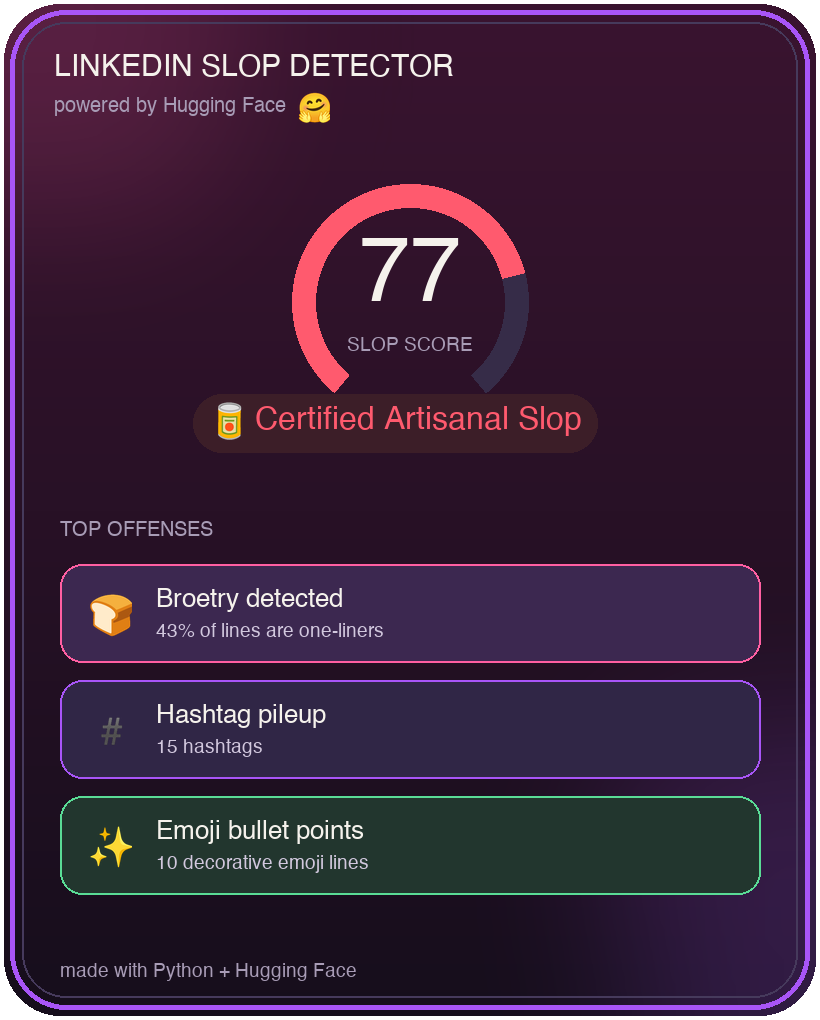
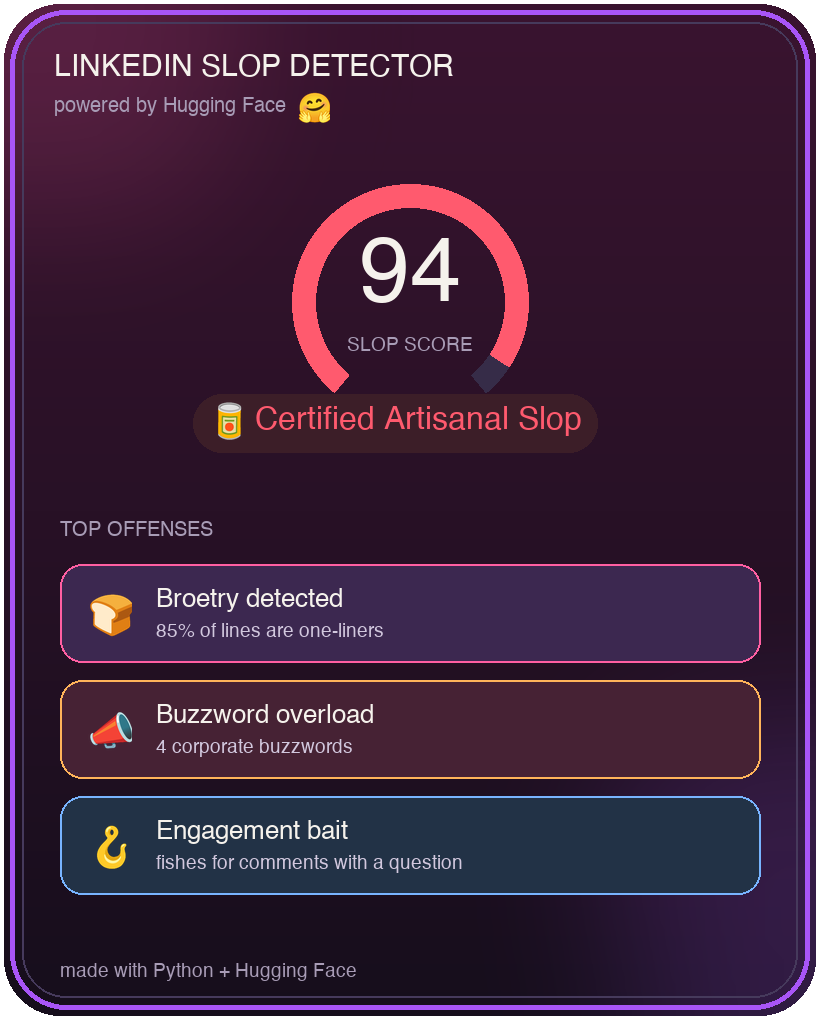
Additional changes to the TUTORIAL.md + round 4 test run

diff --git a/test.py b/test.py
@@ -21,20 +21,18 @@ def count_dashes(text):
     return text.count("—") + text.count("–") + text.count(" - ")
 
 def anaphora_hits(text):
-    """Lines that repeat another line's opening two words (e.g. 'Culture is built...')."""
     from collections import Counter
     lines = [l.strip() for l in text.splitlines() if l.strip()]
     starts = Counter(" ".join(l.lower().split()[:2]) for l in lines if len(l.split()) >= 2)
     return sum(c for c in starts.values() if c >= 2)
 
 def broetry_ratio(text):
-    """Fraction of lines that are tiny one-liners (only trusted once there are 6+ lines)."""
     lines = [l.strip() for l in text.splitlines() if l.strip()]
     short = sum(1 for l in lines if len(l.split()) <= 6)
+    # only trust the ratio once there are enough lines to be meaningful
     return short / len(lines) if len(lines) >= 6 else 0
 
 def emoji_bullets(text):
-    """How many lines start with an emoji (decorative bullets)."""
     lines = [l.strip() for l in text.splitlines() if l.strip()]
     return sum(1 for l in lines if not l[0].isascii())
 
@@ -53,7 +51,6 @@ def rule_signals(text):
     return min(80, score)
 
 def offense_count(signals):
-    """How many slop signals tripped their threshold (the boxes on the card)."""
     flags = [
         signals["broetry"] >= 0.4,
         signals["buzzwords"] >= 1,
@@ -62,7 +59,7 @@ def offense_count(signals):
         signals["emoji_bullets"] >= 2,
         signals["dashes"] > 3,
         signals["anaphora"] >= 2,
-    ]
+        ]
     return sum(flags)
 
 def hf_performative_score(text, token):
@@ -83,40 +80,14 @@ def verdict(score):
     return "An Actual Human Wrote This 😮"
 
 def main():
-    # 👇 paste your own post between the triple quotes!
-    text = """"
-She Plays To Win STEM Challenge Day for Secondary School Girls 
-📅 26 June 2026
-🎓 Secondary School Girls STEM Challenge Day in London 
-👩🎓 Empowering girls through Chess♟️ | Maths 🔢 | Coding 💻
-Giving Girls the Best Opening Move in Life
-
-We are thrilled to host this amazing day with several secondary school girls and invite inspiring STEM professionals, industry leaders, innovators and role models coming together to empower the next generation of girls:
-♟️ Strategic Thinking through Chess
-💻 Creative Problem Solving through Coding
-🔢 Mathematical Confidence & Challenge
-🚀 Real-World STEM Inspiration
-
-Hugely indebted to FundApps Get with the Program Aila Money Fai M.
-STEM Learning UK 
-
-Thankful to each of our speakers for making time to join us and share their career journeys and run sessions to inspire a future engineer, scientist, technologist, entrepreneur, data scientist or innovator! Jeni Trice Nitika Vyas, CFA 
-
-Credit to the Founder Lorin D'Costa, our Trustees Kanwal Bhatia Dipal Patel Jennifer Gelain-Sohn Naheed Vyas Rashmi Prabhakar, our Volunteers Alisha Vyas Emmanuelle Gelain-Sohn for sparing time to further this cause. And some of our supporters and allies Nadia Edwards-Dashti Charlotte de Metz 
-
-By sharing experiences, challenges and successes, we can help girls see what is possible when talent meets opportunity:
-✨ Be the role model you wish you'd had.
-✨ Inspire confidence and ambition.
-✨ Help unlock future STEM careers.
-
-Empowering Girls. Building Confidence. Solving Problems, Creating Futures.
-www.sheplaystowin.co.uk
-
-hashtag#GivingGirlsTheBestOpeningMoveInLife hashtag#ShePlaysToWin hashtag#STEMChallengeDay hashtag#GirlsinSTEM hashtag#WomenInTech hashtag#FutureLeaders hashtag#GirlsInTech hashtag#GirlsWhoCode hashtag#ChessInEducation hashtag#STEMEducation hashtag#RoleModelsMatter hashtag#DiversityInTech hashtag#InspiringTheFuture hashtag#SecondarySchools hashtag#STEMCareers
-
-Chess♟️ | Maths 🔢 | Coding 💻
-
-"""
+    # paste your own post between the triple quotes!
+    text = """I got rejected 100 times.
+Then everything changed.
+We need to leverage synergy to move the needle.
+Culture is built when teams win.
+Culture is built when people care.
+Agree?
+#motivation #grindset #blessed"""
 
     rules = rule_signals(text)
     hf = hf_performative_score(text, HF_TOKEN)
@@ -132,11 +103,9 @@ Chess♟️ | Maths 🔢 | Coding 💻
     }
 
     if offense_count(signals) == 0:
-        # no tells flagged: lean on the AI alone, kept low
-        score = round(hf * 25)
+        score = round(hf * 25)                            # no tells: lean on the AI, kept low
     else:
-        # scale the whole blend up to use the full range
-        score = round(min(100, (rules + hf * 40) * 1.4))
+        score = round(min(100, (rules + hf * 40) * 1.4))  # otherwise use the full range
 
     print(f"\n  Slop Score: {score}/100  —  {verdict(score)}\n")
     make_card(score, signals)

diff --git a/TUTORIAL.md b/TUTORIAL.md
@@ -141,11 +141,15 @@ def count_hits(text, phrases):
 
 We lowercase first so "Synergy" and "synergy" both count, and we'll reuse this for several signals.
 
-Next, the engagement-bait closers (the lines that beg for a reaction) and a function that counts them, plus a point if the whole post ends on a question:
+Next, the engagement-bait closers, the lines that beg for a reaction:
 
 ```python
 CLOSERS = ["agree?", "thoughts?", "comment below", "repost if"]
+```
 
+And a function that counts them, plus a point if the whole post ends on a question:
+
+```python
 def engagement_bait(text):
     hits = count_hits(text, CLOSERS)
     if text.strip().endswith("?"):
@@ -282,7 +286,7 @@ Now `main()` ties everything together. It scores a sample post, builds the `sign
 
 ```python
 def main():
-    # 👇 paste your own post between the triple quotes!
+    # paste your own post between the triple quotes!
     text = """I got rejected 100 times.
 Then everything changed.
 We need to leverage synergy to move the needle.